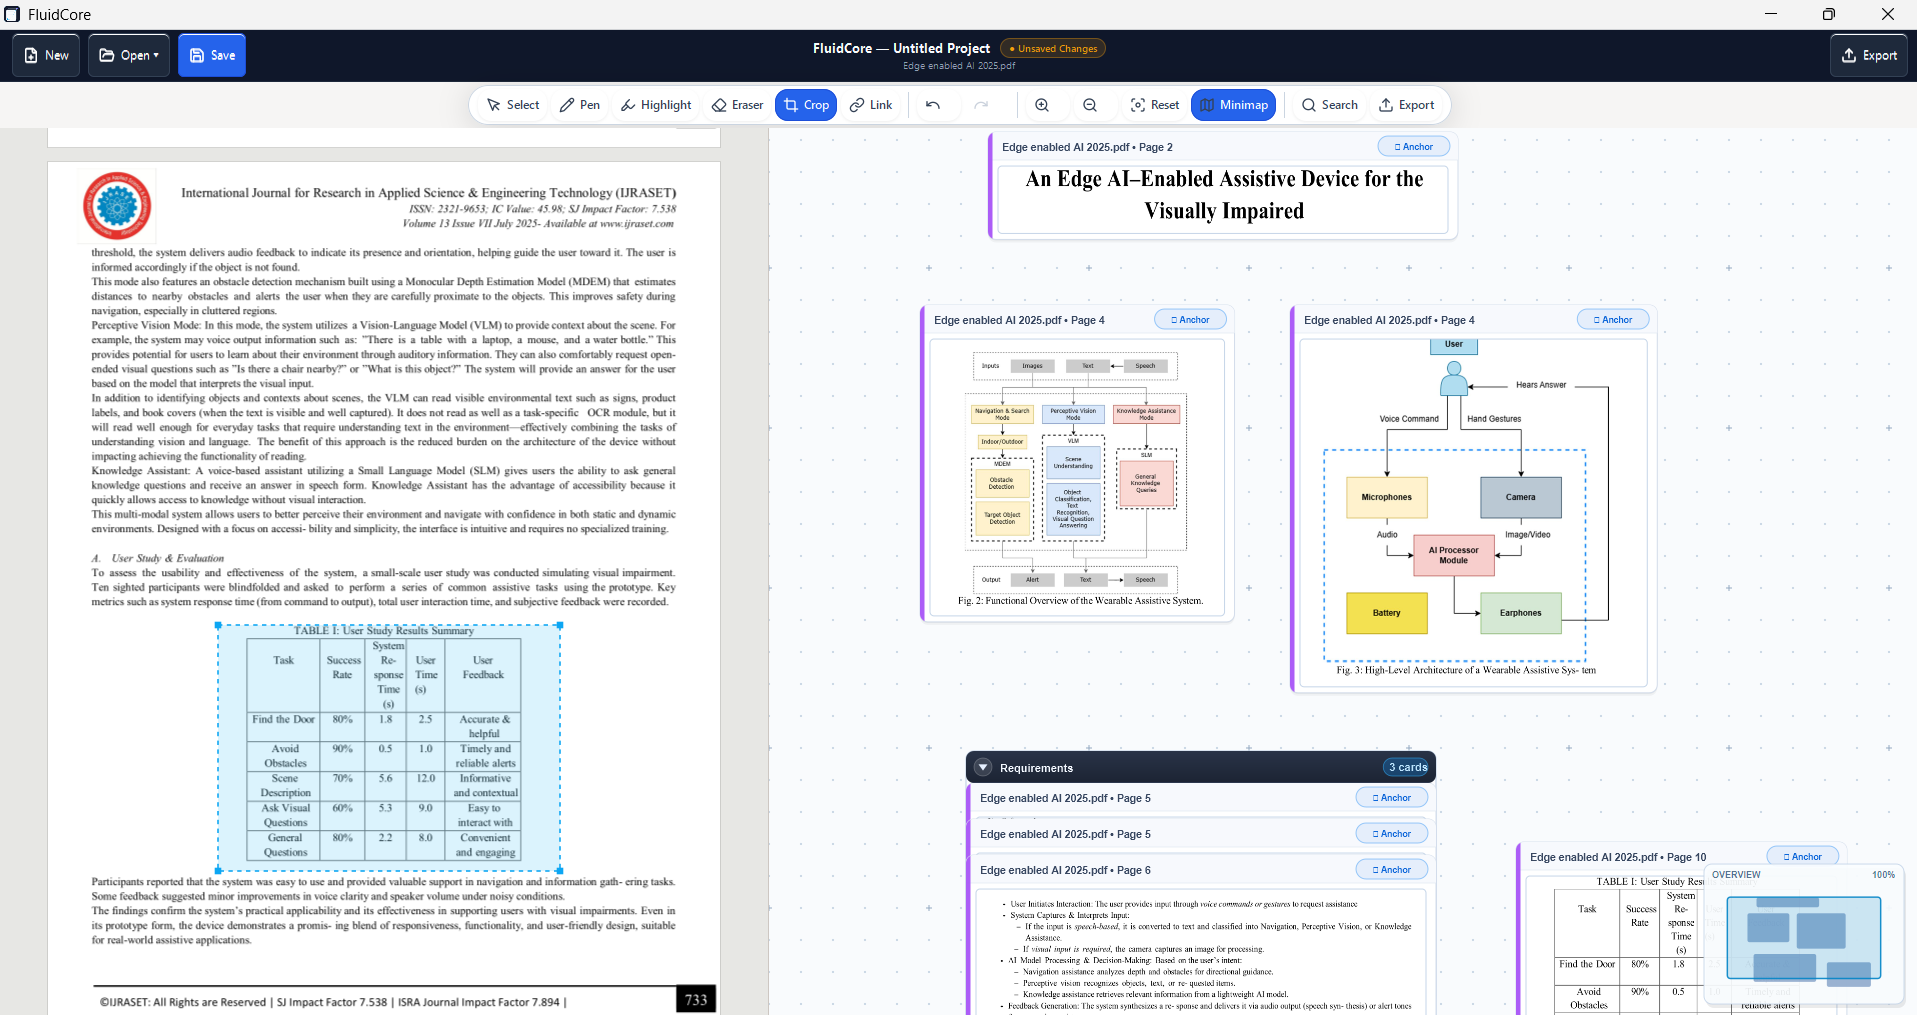
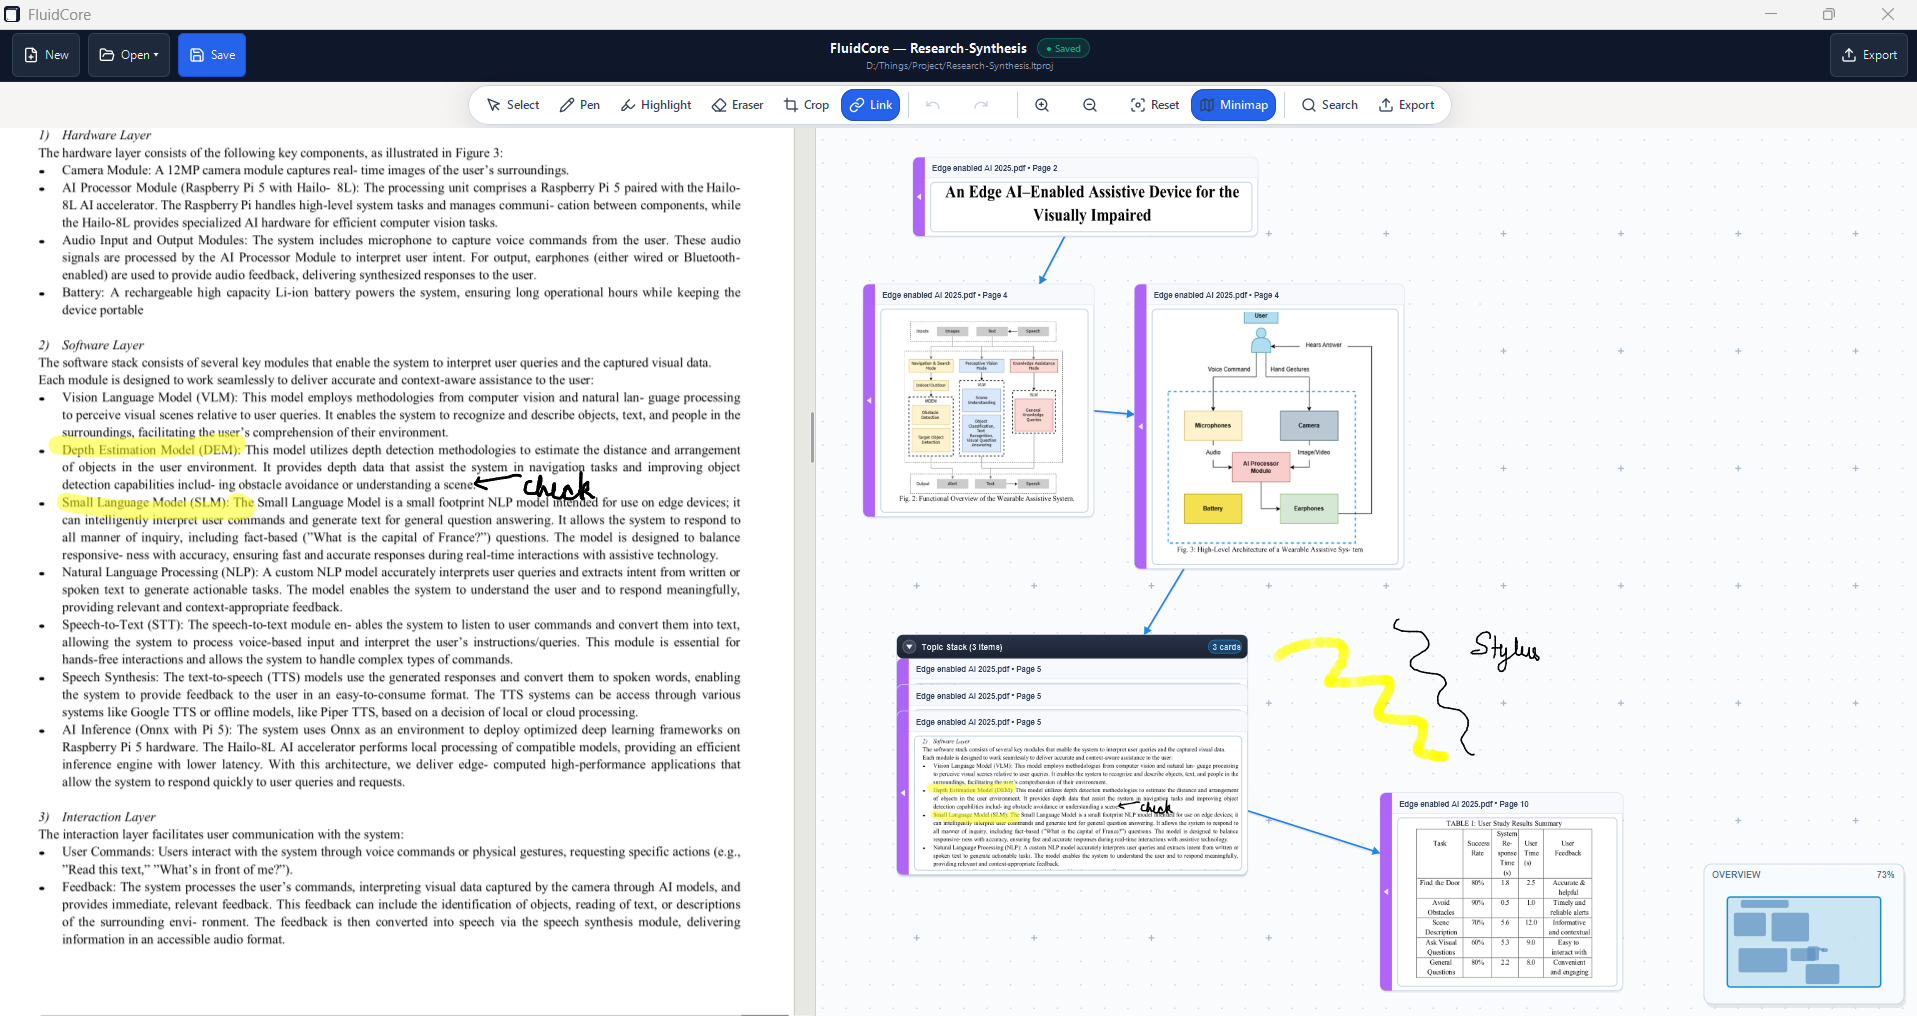
chore(release): bump version to v1.0.1 and update distribution package manifests

diff --git a/README.md b/README.md
@@ -1,7 +1,7 @@
 # FluidCore Platform
 
 [![CI](https://github.com/developerakshat12/FluidCorePDF/actions/workflows/ci.yml/badge.svg)](https://github.com/developerakshat12/FluidCorePDF/actions/workflows/ci.yml)
-[![Release: v1.0.0](https://img.shields.io/badge/Release-v1.0.0-brightgreen.svg)](https://github.com/developerakshat12/FluidCorePDF/releases)
+[![Release: v1.0.1](https://img.shields.io/badge/Release-v1.0.1-brightgreen.svg)](https://github.com/developerakshat12/FluidCorePDF/releases)
 [![License: GPL-2.0-or-later](https://img.shields.io/badge/License-GPL%202.0%2B-blue.svg)](LICENSE)
 [![Platform](https://img.shields.io/badge/Platform-Windows%2011%20Native%20%7C%20Linux-brightgreen.svg)]()
 [![Offline First](https://img.shields.io/badge/Network-Air--Gapped%20%2F%20Zero%20Telemetry-success.svg)]()
@@ -13,9 +13,9 @@ An **open-source, offline-first fluid document synthesis platform** designed for
 
 ---
 
-## 🚀 Official Release (v1.0.0)
+## 🚀 Official Release (v1.0.1)
 
-FluidCore **v1.0.0** is now officially released! Available for both **Windows 11 (Native)** and **Linux (Ubuntu, Debian, Fedora, Arch)** with verified zero-network air-gapped compliance, SQLite WAL atomic persistence, and sustained 50-document scalability.
+FluidCore **v1.0.1** is now officially released! Available for both **Windows 11 (Native)** and **Linux (Ubuntu, Debian, Fedora, Arch)** with verified zero-network air-gapped compliance, SQLite WAL atomic persistence, and sustained 50-document scalability.
 
 ### Downloads
 
@@ -23,8 +23,8 @@ FluidCore **v1.0.0** is now officially released! Available for both **Windows 11
 | :--- | :--- | :--- | :--- |
 | **Windows** | **Native Installer** | `FluidCore-Setup-x64.exe` | **Recommended for Windows.** Inno Setup 64-bit installer with Start Menu integration, desktop shortcut, uninstaller, and `.ltproj` project bundle file associations. |
 | **Windows** | **Portable Zip** | `fluidcore-windows-x64.zip` | Standalone portable archive containing all required UCRT64 runtime DLLs, GLib schemas, GDK-Pixbuf loaders, and Adwaita icons. Run anywhere without admin privileges or external dependencies. |
-| **Linux** | **AppImage Bundle** | `FluidCore-1.0.0-x86_64.AppImage` | **Recommended for Linux.** Standalone portable executable with bundled dependencies, desktop integration, and Wayland/X11 support. Make executable (`chmod +x`) and run anywhere. |
-| **Linux** | **Debian Package** | `fluidcore_1.0.0_amd64.deb` | Native Debian/Ubuntu package (`apt install ./fluidcore_1.0.0_amd64.deb`) with system dependency management, FreeDesktop application menu entry, and MIME type associations. |
+| **Linux** | **AppImage Bundle** | `FluidCore-1.0.1-x86_64.AppImage` | **Recommended for Linux.** Standalone portable executable with bundled dependencies, desktop integration, and Wayland/X11 support. Make executable (`chmod +x`) and run anywhere. |
+| **Linux** | **Debian Package** | `fluidcore_1.0.1_amd64.deb` | Native Debian/Ubuntu package (`apt install ./fluidcore_1.0.1_amd64.deb`) with system dependency management, FreeDesktop application menu entry, and MIME type associations. |
 | **Linux** | **Flatpak Manifest** | `ops/flatpak/org.fluidcore.platform.yml` | Sandboxed distribution manifest for Flathub with zero-network isolation (`--unshare=network`) and host filesystem portal access. |
 
 ---

diff --git a/ops/benchmarks/bench-scalability.md b/ops/benchmarks/bench-scalability.md
@@ -19,11 +19,11 @@ squeeze fps: 60.0
 - **Document Scale**: 50 PDF documents (5000 vector pages total)
 - **Cold Load Duration (T0 -> T1)**: 0.02 s (Budget: <= 8.00 s) -> PASS
 - **Baseline RAM**: 13.7 MB
-- **Working Set after Cold Load**: 20.8 MB
-- **Working Set after Pass 1 (50 docs)**: 59.2 MB
-- **Working Set after Pass 2 (50 docs)**: 62.2 MB
-- **Inter-Pass Working Set Growth**: 3.0 MB (demonstrates cache boundedness)
-- **Peak Working Set**: 0.061 GB (62.2 MB, Budget: <= 1.2 GB) -> PASS
+- **Working Set after Cold Load**: 21.0 MB
+- **Working Set after Pass 1 (50 docs)**: 59.5 MB
+- **Working Set after Pass 2 (50 docs)**: 62.6 MB
+- **Inter-Pass Working Set Growth**: 3.1 MB (demonstrates cache boundedness)
+- **Peak Working Set**: 0.061 GB (62.6 MB, Budget: <= 1.2 GB) -> PASS
 
 ## Verdict
 PASS
